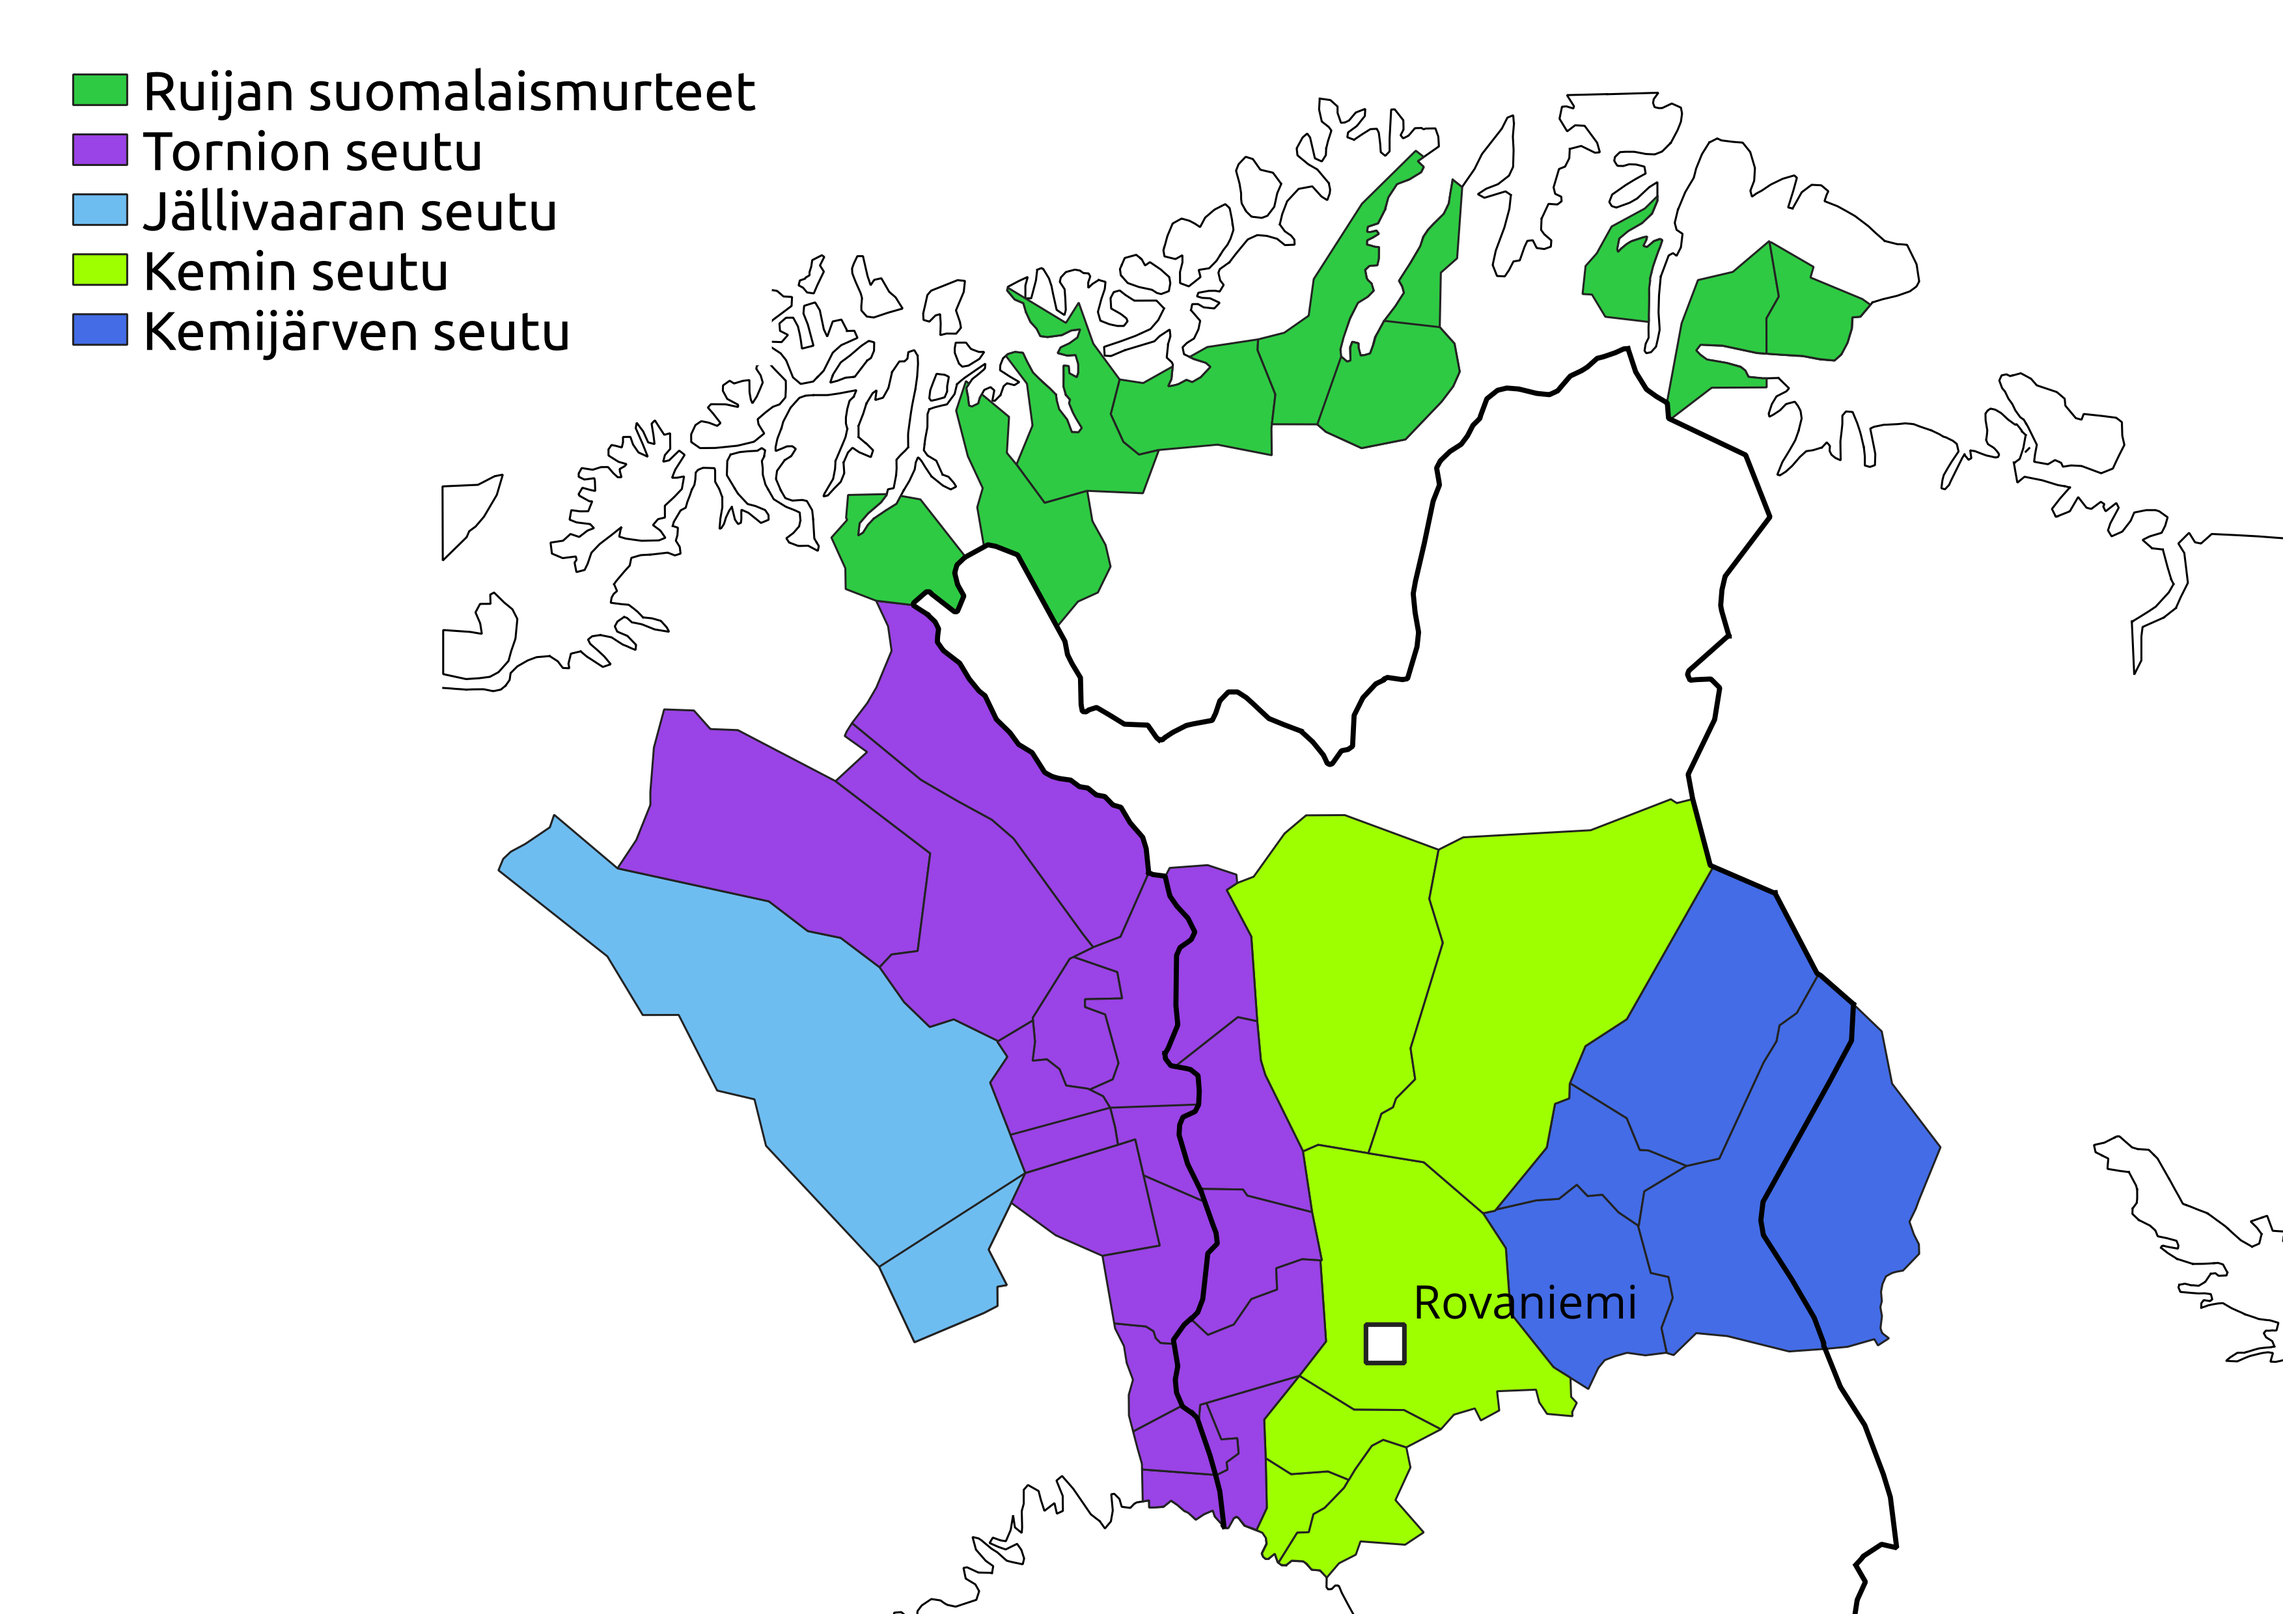
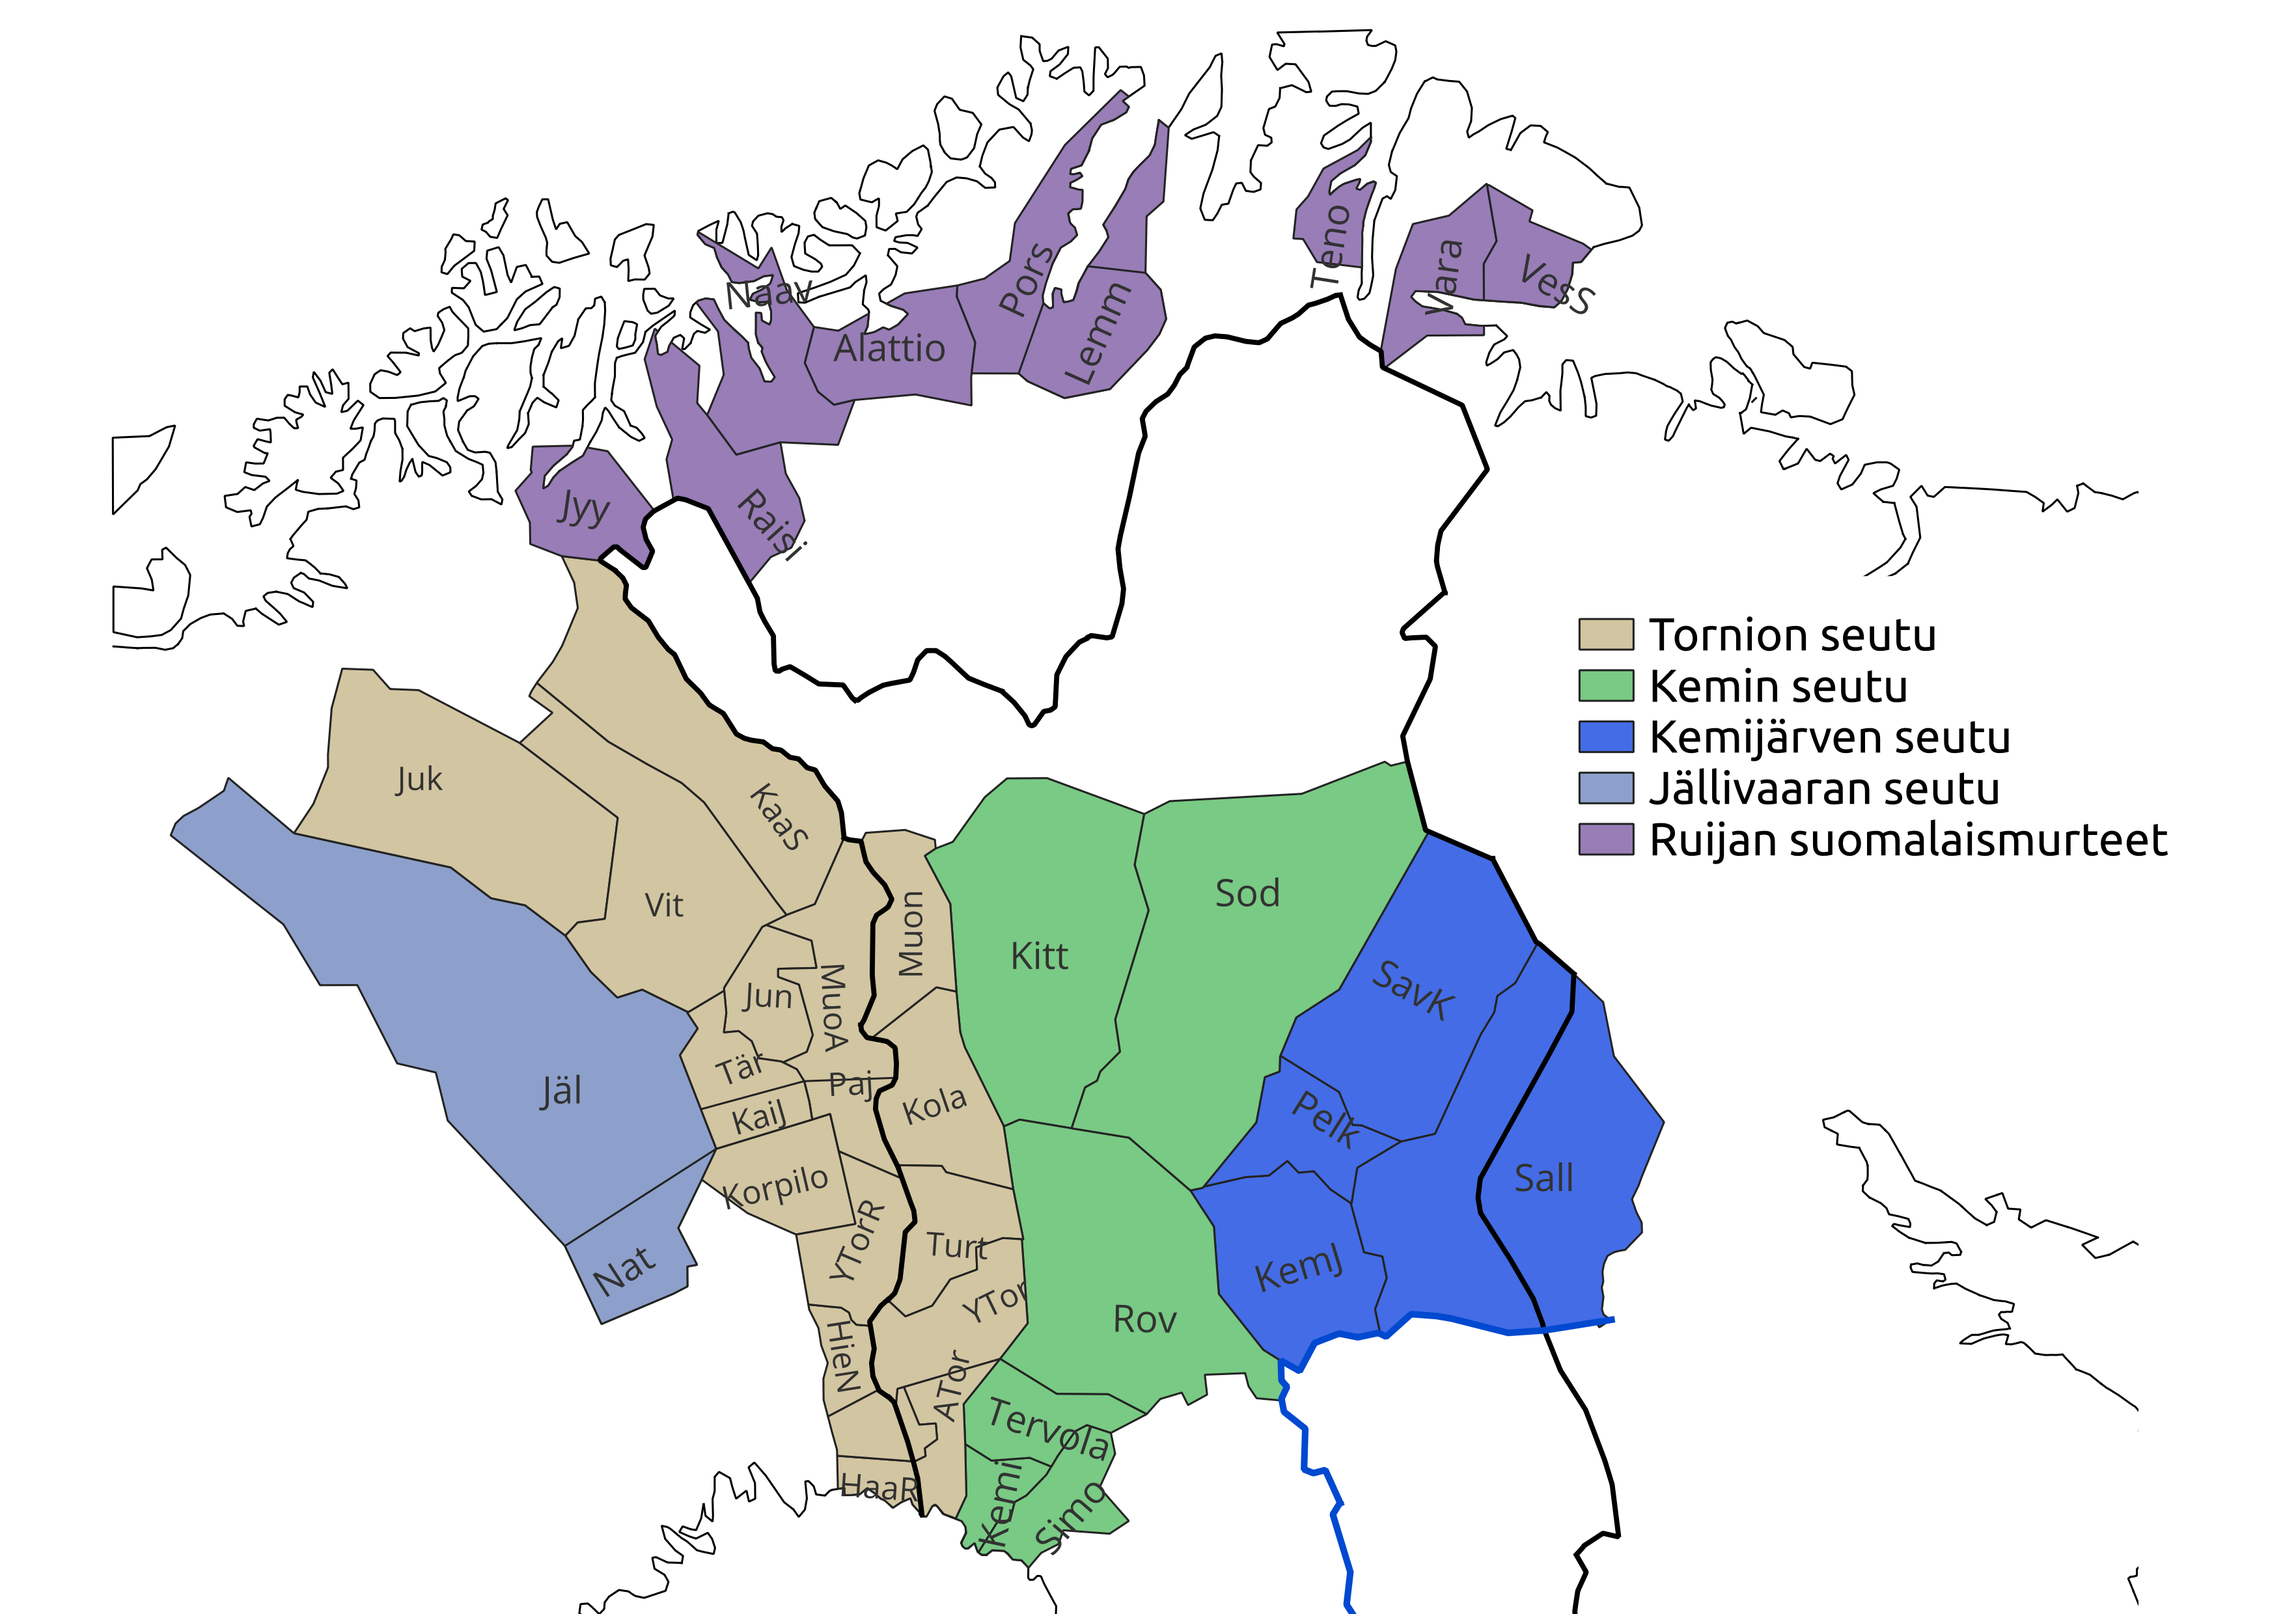
Add maps

diff --git a/fi/murteet.md b/fi/murteet.md
@@ -5,34 +5,94 @@ lang: fi
 i18n-link: murteet
 ---
 
-<img src="../assets/images/murrealueet.png" alt="Photo" hspace="20" width="80%" align="center"/>
+<img src="../assets/images/murrealueet.png" alt="Photo" hspace="20" width="100%" align="center"/>
 
-Kaikkien karttojen pohjana on käytetty Kotimaisten kielten keskuksen Suomen murteiden sanakirjan karttapohjaa. Murrealuejako perustuu Lauri Kettusen (1940) kartastoihin ja kuvaa aikaa ennen toista maailmansotaa. Lisenssi: CC-BY 4.0.
+Tämä sivu sisältää karttoja suomen murrealueista sekä murrepiirteiden levikkikarttoja.
+* Kaikkien karttojen pohjana on käytetty Kotimaisten kielten keskuksen Suomen murteiden sanakirjan karttapohjaa, ja kartat on tehty vapaasti saatavilla olevalla QGIS-ohjelmistolla.
+* Murrealuejako perustuu Terho Itkosen esitykseen (1989). Levikkikartat ovat yksinkertaistettuja versioita Lauri Kettusen (1940) murrekartastosta. 
+Kartat saattavat joissain tapauksissa poiketa alkuperäisistä esityksistä, koska pitäjien ja levikkien rajojen tulkitseminen vanhoista kartoista on vaikeaa. 
+
+Kettusen aineisto on ajalta ennen toista maailmansotaa, Itkosen (tiettävästi) sekä ajalta ennen että jälkeen sodan. (Vaikka Itkosen jako on vakiintunut, sen tausta on hyvin epäselvä, ks. Aarikka 2023.)
+
+On korostettava, että murrealueet eivät todellisuudessa ole (tai ole olleet) selvärajaisia ja niiden sijainnista on esitetty runsaasti eroavia näkemyksiä.
+Tällä sivulla esitetyt alueet ja rajat ovat suomalaisen murteentutkimuksen alalla kuitenkin melko vakiintuneita.
+
+Lisenssi: CC-BY 4.0. Tekijä Olli Kuparinen.
+
+# Murrealueet
 
 ## Peräpohjolan murteet
 
-<img src="../assets/images/perapohjola.png" alt="Photo" hspace="20" width="80%" align="center"/>
+<img src="../assets/images/perapohjola.png" alt="Photo" hspace="20" width="100%" align="center"/>
 
-## Keski- ja Pohjoispohjanmaan murteet
+## Keski- ja Pohjois-Pohjanmaan murteet
 
-<img src="../assets/images/keski-ja-pohjoispohjanmaa.png" alt="Photo" hspace="20" width="80%" align="center"/>
+<img src="../assets/images/keski-ja-pohjoispohjanmaa.png" alt="Photo" hspace="20" width="100%" align="center"/>
 
 ## Etelä-Pohjanmaan murre
 
-<img src="../assets/images/etelapohjanmaa.png" alt="Photo" hspace="20" width="80%" align="center"/>
+<img src="../assets/images/etelapohjanmaa.png" alt="Photo" hspace="20" width="100%" align="center"/>
 
 ## Hämäläismurteet
 
-<img src="../assets/images/hamalaismurteet.png" alt="Photo" hspace="20" width="80%" align="center"/>
+<img src="../assets/images/hamalaismurteet.png" alt="Photo" hspace="20" width="100%" align="center"/>
 
 ## Lounaismurteet ja lounaiset välimurteet
 
-<img src="../assets/images/lounaismurteet.png" alt="Photo" hspace="20" width="80%" align="center"/>
+<img src="../assets/images/lounaismurteet.png" alt="Photo" hspace="20" width="100%" align="center"/>
 
 ## Savolaismurteet
 
-<img src="../assets/images/savolaismurteet.png" alt="Photo" hspace="20" width="80%" align="center"/>
+<img src="../assets/images/savolaismurteet.png" alt="Photo" hspace="20" width="100%" align="center"/>
 
 ## Kaakkoismurteet
 
-<img src="../assets/images/kaakkoismurteet.png" alt="Photo" hspace="20" width="80%" align="center"/>
+<img src="../assets/images/kaakkoismurteet.png" alt="Photo" hspace="20" width="100%" align="center"/>
+
+# Levikkikartat
+
+## Geminaatioilmiöt
+Geminaatiolla tarkoitetaan konsonanttien kahdentumista. Suomen murteissa esiintyy kolmea eri geminaatiotyyppiä, joiden levikki on merkitty karttaan.
+* Yleisgeminaatiossa konsonantti kahdentuu lyhyen, painollisen tavun jäljessä ja pitkän vokaaliaineksen edellä (esim. kallaa, tekkee, kottiin).
+* Itämurteiden erikoisgeminaatiossa konsonantti kahdentuu aina pitkän vokaaliaineksen edellä (esim. syömmään ruokkaa). Itämurteiden erikoisgeminaatio sisältää siis myös yleisgeminaation.
+* Lounaismurteiden erikoisgeminaatiossa k, p, t ja s kahdentuvat soinnillisen äänteen jäljessä ja pitkän (mutta sittemmin lyhentyneen) vokaaliaineksen edellä (esim. kulkke vapautte).
+
+<img src="../assets/images/geminaatiot.png" alt="Photo" hspace="20" width="100%" align="center"/>
+
+## Diftongien avartuminen
+Diftongit ie, uo ja yö avartuvat kartalla kuvatulla alueella (eli ovat ennemminkin ia/iä, ua, yä).
+
+<img src="../assets/images/avartuminen.png" alt="Photo" hspace="20" width="100%" align="center"/>
+
+## Vokaaliyhtymät iA, UA
+Suomen murteissa vokaaliyhtymät OA ja eA oikenevat laajalti (palloa > palloo, korkea > korkee). Vokaaliyhtymät iA ja UA oikenevat (kahvii, kakkuu) pienemmällä alueella, joka on kuvattu kartassa.
+
+<img src="../assets/images/iiuu.png" alt="Photo" hspace="20" width="100%" align="center"/>
+
+## Persoonapronominit mie ja myö
+Yksikön ensimmäisen persoonan pronomini mie ja monikon ensimmäisen persoonan pronomini myö esintyvät osittain yhdessä ja osittain erillään. Näiden pronominien levikki on kuvattu kartassa.
+
+<img src="../assets/images/miemyo.png" alt="Photo" hspace="20" width="100%" align="center"/>
+
+## Diftongiutuminen
+Diftongiutumisella tarkoitetaan prosessia, jossa pitkästä vokaalista kehittyy diftongi (esim. siis maa > mua, pää > peä). Diftongiutumisen levikki ja diftongin laatu on kuvattu kartassa.
+
+<img src="../assets/images/muapea.png" alt="Photo" hspace="20" width="100%" align="center"/>
+
+## Liudennus
+Liudennuksella tarkoitetaan konsonanttien ääntämyksen j-mäistä sävyä (esim. vesi ääntyy ennemminkin vesj).
+
+<img src="../assets/images/liudennus.png" alt="Photo" hspace="20" width="100%" align="center"/>
+
+## Loi-monikko
+Esim. kukkoja > kukkoloi, kukkoloeta
+
+<img src="../assets/images/kukkoloi.png" alt="Photo" hspace="20" width="100%" align="center"/>
+
+# Lähteet:
+
+Aarikka, Lotta. (2023). Murre ja sen tutkimus: Näkökulmia fennistisen murteentutkimuksen historiaan ja kieli-ideologioihin 1871–2017. [linkki](https://urn.fi/URN:ISBN:978-951-29-9301-7)
+
+Itkonen, Terho. (1989). Nurmijärven murrekirja. Kotiseudun murrekirjoja 10. Helsinki: Suomalaisen Kirjallisuuden Seura.
+
+Kettunen, Lauri. (1940). Suomen murteet III. A. Murrekartasto. Suomalaisen Kirjallisuuden Seuran toimituksia 188. Helsinki: Suomalaisen kirjallisuuden seura.

diff --git a/publications.md b/publications.md
@@ -10,13 +10,15 @@ description: Website of Olli Kuparinen to share professional and unprofessional 
 Following the [Academy of Finland guidelines](https://www.aka.fi/en/research-funding/apply-for-funding/how-to-apply-for-funding/az-index-of-application-guidelines2/list-of-publications/)
 
 ## A Peer-reviewed scientific articles
+* Kuparinen, Olli & Yves Scherrer. 2023. Dialect Representation Learning with Neural Dialect-to-Standard Normalization. In Tenth Workshop on NLP for Similar Languages, Varieties and Dialects (VarDial 2023), 200–212, Dubrovnik, Croatia. Association for Computational Linguistics. [link](https://aclanthology.org/2023.vardial-1.20)
+* Kuparinen, Olli. 2023. Murreviikko - A Dialectologically Annotated and Normalized Dataset of Finnish Tweets. In Tenth Workshop on NLP for Similar Languages, Varieties and Dialects (VarDial 2023), 31–39, Dubrovnik, Croatia. Association for Computational Linguistics. [link](https://aclanthology.org/2023.vardial-1.3)
 * Kuparinen, Olli – Peltonen, Jaakko – Mustanoja, Liisa – Leino, Unni – Santaharju, Jenni 2021: Lects in Helsinki Finnish – a probabilistic component modeling approach. Language Variation and Change 33 (1), 1–26. [doi](https://doi.org/10.1017/S0954394521000041)
 * Kuparinen, Olli – Mustanoja, Liisa – Peltonen, Jaakko – Santaharju, Jenni – Leino, Unni, 2019: Muutosmallit kolmen aikapisteen pitkittäisaineiston valossa. Sananjalka 61, 30–56.
 [doi](https://doi.org/10.30673/sja.80056)
 * Kuparinen, Olli 2018: Infinitiivien variaatio ja muutos Helsingissä. Virittäjä 122 (1), 29–52.
 [doi](https://doi.org/10.23982/vir.65310)
 * Kuparinen, Olli – Santaharju, Jenni – Leino, Unni – Mustanoja, Liisa – Peltonen, Jaakko. 2022. Katomuotojen eteneminen yleiskielen hd-yhtymässä Helsingin puhekielessä. Virittäjä 126 (3). [doi](https://doi.org/10.23982/vir.100585).
-* Knuutila, Sini – Kuparinen, Olli – Mustanoja, Liisa – Peltonen, Jaakko – Leino, Unni – Santaharju, Jenni: Miksi kato leviää? hd-yhtymän katovariantin diffuusion syyt Helsingin puhekielessä. Sananjalka, 64(64). [doi](https://doi.org/10.30673/sja.115658)
+* Knuutila, Sini – Kuparinen, Olli – Mustanoja, Liisa – Peltonen, Jaakko – Leino, Unni – Santaharju, Jenni. 2022. Miksi kato leviää? hd-yhtymän katovariantin diffuusion syyt Helsingin puhekielessä. Sananjalka, 64(64). [doi](https://doi.org/10.30673/sja.115658)
 
 ## E Publications intended for the general public, linked to the applicant’s research
 * Älä jätä roikkuu – Infinitiivimuodot liikkeessä. [Virittäjä-blog.](http://virittajablogi.kotikielenseura.fi/ala-jata-roikkuu-infinitiivimuodot-liikkeessa/)

diff --git a/fi/publications.md b/fi/publications.md
@@ -8,13 +8,15 @@ i18n-link: publications
 [Suomen Akatemian mallin](https://www.aka.fi/tutkimusrahoitus/hae-rahoitusta/nain-haet-rahoitusta/ohjehakemisto/julkaisuluettelo/) mukaisesti eriteltynä
 
 ## A Vertaisarvioidut tieteelliset artikkelit
+* Kuparinen, Olli & Yves Scherrer. 2023. Dialect Representation Learning with Neural Dialect-to-Standard Normalization. In Tenth Workshop on NLP for Similar Languages, Varieties and Dialects (VarDial 2023), 200–212, Dubrovnik, Croatia. Association for Computational Linguistics. [linkki](https://aclanthology.org/2023.vardial-1.20)
+* Kuparinen, Olli. 2023. Murreviikko - A Dialectologically Annotated and Normalized Dataset of Finnish Tweets. In Tenth Workshop on NLP for Similar Languages, Varieties and Dialects (VarDial 2023), 31–39, Dubrovnik, Croatia. Association for Computational Linguistics. [linkki](https://aclanthology.org/2023.vardial-1.3)
 * Kuparinen, Olli – Peltonen, Jaakko – Mustanoja, Liisa – Leino, Unni – Santaharju, Jenni 2021: Lects in Helsinki Finnish – a probabilistic component modeling approach. Language Variation and Change 33 (1), 1–26. [doi](https://doi.org/10.1017/S0954394521000041)
 * Kuparinen, Olli – Mustanoja, Liisa – Peltonen, Jaakko – Santaharju, Jenni – Leino, Unni, 2019: Muutosmallit kolmen aikapisteen pitkittäisaineiston valossa. Sananjalka 61, 30–56.
 [doi](https://doi.org/10.30673/sja.80056)
 * Kuparinen, Olli 2018: Infinitiivien variaatio ja muutos Helsingissä. Virittäjä 122 (1), 29–52.
 [doi](https://doi.org/10.23982/vir.65310)
 * Kuparinen, Olli – Santaharju, Jenni – Leino, Unni – Mustanoja, Liisa – Peltonen, Jaakko. 2022. Katomuotojen eteneminen yleiskielen hd-yhtymässä Helsingin puhekielessä. Virittäjä 126 (3). [doi](https://doi.org/10.23982/vir.100585).
-* Knuutila, Sini – Kuparinen, Olli – Mustanoja, Liisa – Peltonen, Jaakko – Leino, Unni – Santaharju, Jenni: Miksi kato leviää? hd-yhtymän katovariantin diffuusion syyt Helsingin puhekielessä. Sananjalka, 64(64). [doi](https://doi.org/10.30673/sja.115658)
+* Knuutila, Sini – Kuparinen, Olli – Mustanoja, Liisa – Peltonen, Jaakko – Leino, Unni – Santaharju, Jenni. 2022. Miksi kato leviää? hd-yhtymän katovariantin diffuusion syyt Helsingin puhekielessä. Sananjalka, 64(64). [doi](https://doi.org/10.30673/sja.115658)
 
 
 ## E Suurelle yleisölle suunnatut julkaisut, joilla on yhteys hakijan tutkimustyöhön

diff --git a/index.md b/index.md
@@ -20,6 +20,8 @@ I visited KU Leuven from 5 Sep to 2 Dec 2022.
 
 ## Projects
 
+* [LANGAWARE](https://research.tuni.fi/arkisuomet/en/), Tampere University 2023-  
+PI [Johanna Vaattovaara](https://www.tuni.fi/en/johanna-vaattovaara)
 * [CorCoDial project](https://researchportal.helsinki.fi/fi/projects/corpus-based-computational-dialectology-exploiting-machine-transl), University of Helsinki 2021-  
 PI [Yves Scherrer](https://blogs.helsinki.fi/yvesscherrer/)
 * [Kippo project](https://www.tuni.fi/fi/tutkimus/kielellisten-populaatioiden-muutos-ajassa-kippo-2017-2020), Tampere University 2017-2021  
